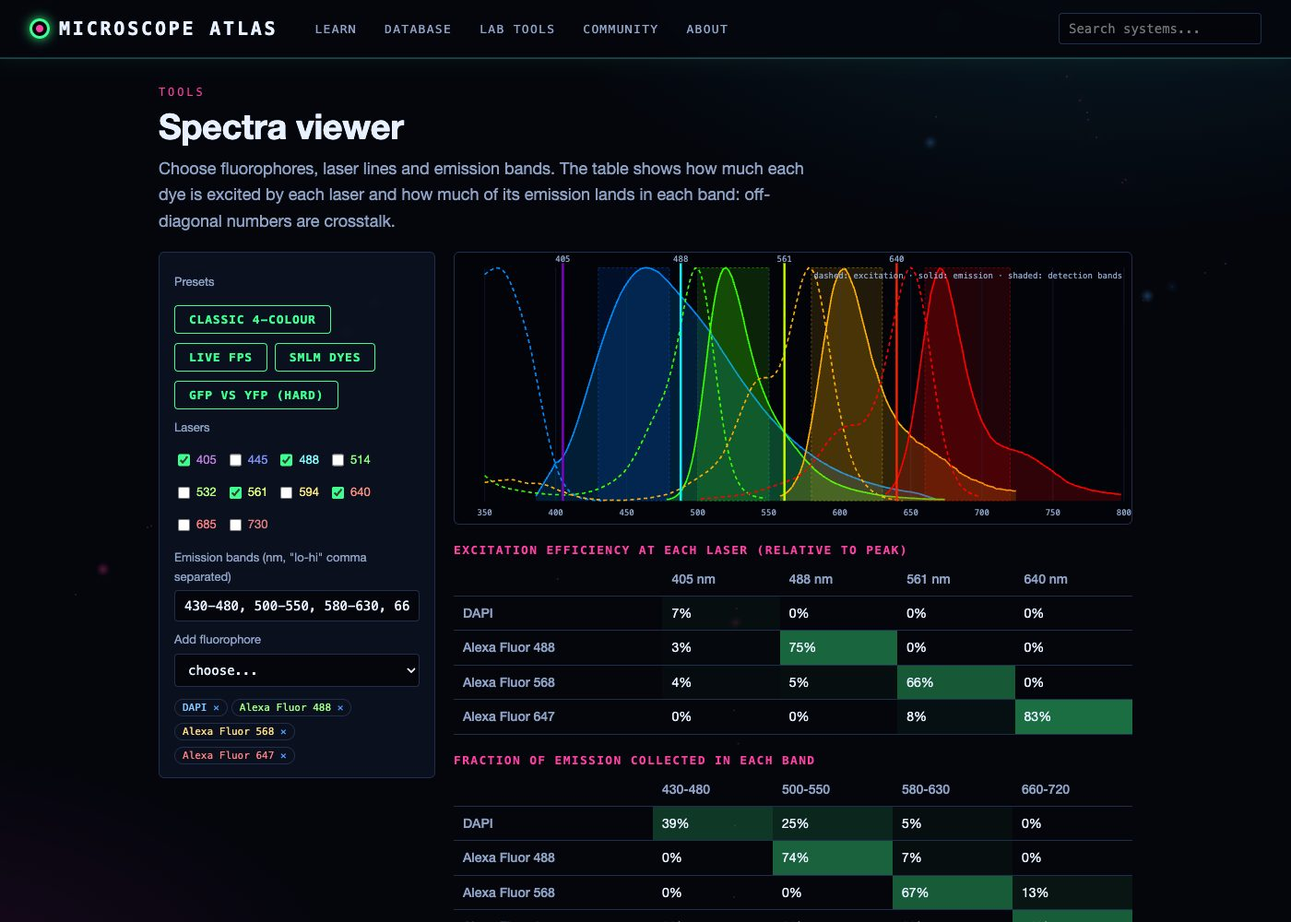
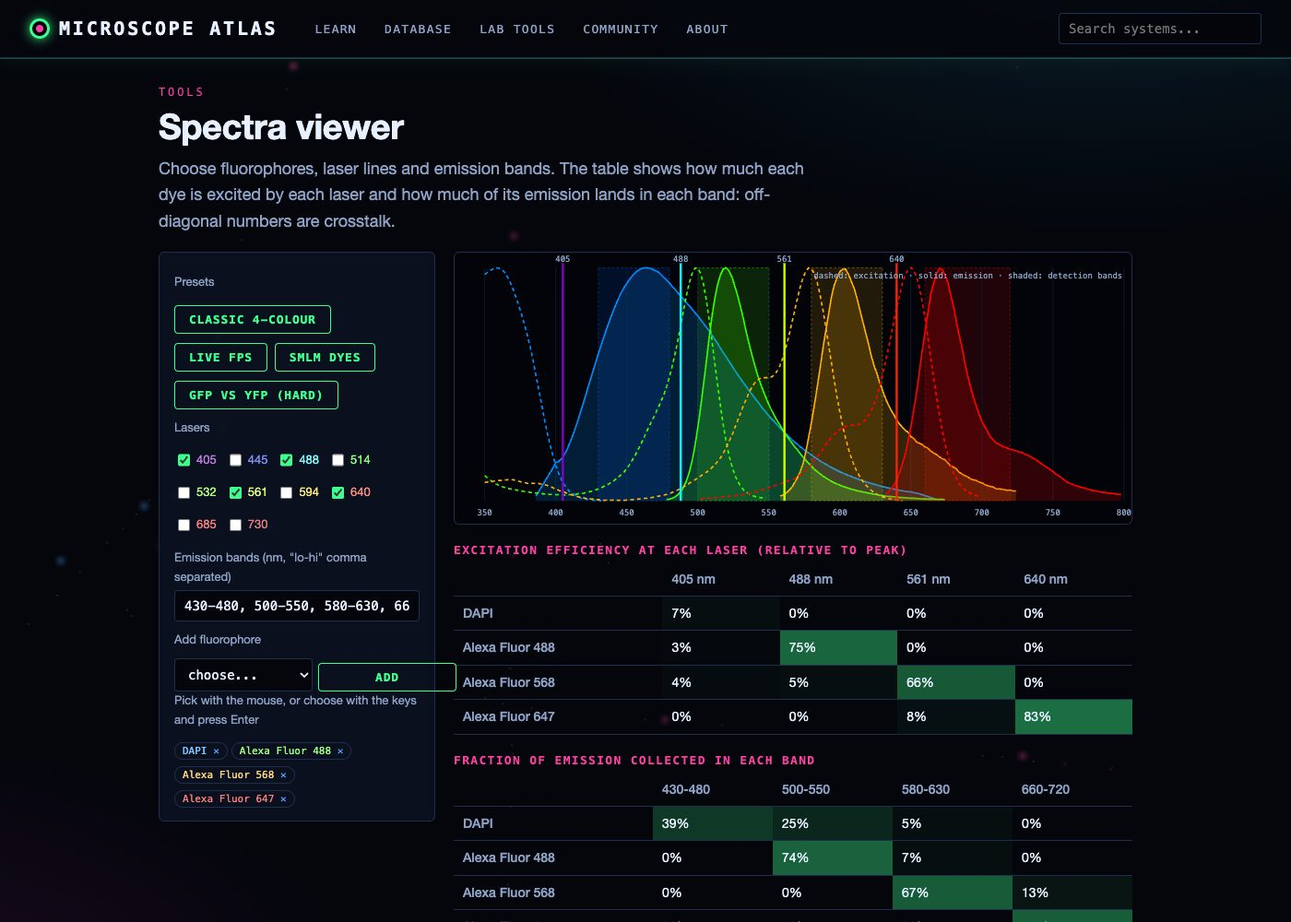
R11: optical table and spectra viewer fully usable by keyboard; audit tests both (132 pages clean)

Changed region(s): [[0.1229, 0.713, 0.3379, 0.899]]

diff --git a/atlas/web/static/table_view.js b/atlas/web/static/table_view.js
@@ -10,7 +10,7 @@ const NS = 'http://www.w3.org/2000/svg';
 const HANDLE = 32; // mm from the part centre
 
 export function createBoard(host, cb) {
-  host.innerHTML = `<svg class="tb-svg" xmlns="${NS}" role="application" aria-label="Optical breadboard: drag parts to move, drag the round handle to rotate">
+  host.innerHTML = `<svg class="tb-svg" xmlns="${NS}" role="application" aria-label="Optical breadboard. Drag parts to move and the round handle to rotate; or Tab to a part, then arrow keys move it (Shift for 10 mm), R and E rotate, Delete removes, Escape deselects">
     <defs><clipPath id="tb-clip"><rect class="tb-cliprect"/></clipPath><pattern id="tb-holes" width="25" height="25" patternUnits="userSpaceOnUse"><circle cx="12.5" cy="12.5" r="2.1" class="tb-hole"/></pattern></defs>
     <rect class="tb-plate" rx="6"/><rect class="tb-holes" fill="url(#tb-holes)"/>
     <g class="tb-beams" clip-path="url(#tb-clip)"></g><g class="tb-parts"></g><g class="tb-labels"></g><g class="tb-ui"></g></svg>`;
@@ -58,8 +58,13 @@ export function createBoard(host, cb) {
     board = { ...b };
     for (const k of ['plate', 'holes', 'cliprect']) { const r = L(k); r.setAttribute('width', board.w); r.setAttribute('height', board.h); }
     L('beams').innerHTML = result ? beams(result.segments, st.show) : '';
-    L('parts').innerHTML = (result ? result.components : []).map(c => `<g class="tb-part${c.id === st.selected ? ' sel' : ''}" data-id="${esc(c.id)}" transform="translate(${c.x} ${c.y}) rotate(${c.rot})">
-      <rect class="tb-hit" x="-12" y="-14" width="24" height="28"/>${draw(c)}<title>${esc(c.label || PARTS[c.type]?.label || c.type)}</title></g>`).join('');
+    // keyboard: every part is focusable and named; focusing one selects it, and focus survives the redraw
+    const had = svg.contains(document.activeElement) && document.activeElement.closest('.tb-part')?.dataset.id;
+    const name = c => c.label || PARTS[c.type]?.label || c.type;
+    L('parts').innerHTML = (result ? result.components : []).map(c => `<g class="tb-part${c.id === st.selected ? ' sel' : ''}" data-id="${esc(c.id)}" transform="translate(${c.x} ${c.y}) rotate(${c.rot})"
+      tabindex="0" role="button" aria-label="${esc(name(c))} at ${Math.round(c.x)}, ${Math.round(c.y)} mm, ${Math.round(c.rot)}°${c.id === st.selected ? ', selected' : ''}">
+      <rect class="tb-hit" x="-12" y="-14" width="24" height="28"/>${draw(c)}<title>${esc(name(c))}</title></g>`).join('');
+    if (had) L('parts').querySelector(`[data-id="${CSS.escape(had)}"]`)?.focus({ preventScroll: true });
     comps = result ? result.components : [];
     overlay();
   }
@@ -126,6 +131,7 @@ export function createBoard(host, cb) {
     if (d.mode === 'rotate' && d.moved) { const c = state.layout.components.find(k => k.id === d.id); cb.rotate(d.id, c.rot, true, true); }
     try { svg.releasePointerCapture(e.pointerId); } catch { /* already released */ }
   };
+  L('parts').addEventListener('focusin', e => { const id = e.target.closest('.tb-part')?.dataset.id; if (id && (!state || state.selected !== id)) cb.select(id); });
   svg.addEventListener('pointerup', end);
   svg.addEventListener('pointercancel', end);
   svg.addEventListener('wheel', e => { e.preventDefault(); zoomBy(Math.exp(e.deltaY * 0.0015), toBoard(e)); }, { passive: false });

diff --git a/atlas/web/static/fluor.js b/atlas/web/static/fluor.js
@@ -56,7 +56,7 @@ route('spectra', async () => {
       <label>Presets</label><div>${list(Object.keys(PRESETS), p => `<button class="alt" data-preset="${esc(p)}">${esc(p)}</button>`)}</div>
       <label>Lasers</label><div id="lz">${list(LASERS, l => `<label style="display:inline-flex;gap:4px;margin-right:10px"><input type="checkbox" value="${l}"> <span style="color:${waveText(l)}">${l}</span></label>`)}</div>
       <label for="bands">Emission bands (nm, "lo-hi" comma separated)</label><input id="bands">
-      <label for="addf">Add fluorophore</label><select id="addf"><option value="">choose...</option>${list(names, n => `<option>${esc(n)}</option>`)}</select>
+      <label for="addf">Add fluorophore</label><div class="row" style="gap:6px;flex-wrap:nowrap"><select id="addf" aria-describedby="addf-help"><option value="">choose...</option>${list(names, n => `<option>${esc(n)}</option>`)}</select><button class="alt" id="addf-go" type="button">Add</button></div><span id="addf-help" class="small mute">Pick with the mouse, or choose with the keys and press Enter</span>
       <div id="chips" style="margin-top:8px"></div></div>
       <div><svg id="splot" class="plot" viewBox="0 0 900 360"></svg><div id="xtab" class="scroll"></div></div></div>`;
   const $id = id => document.getElementById(id);
@@ -99,7 +99,13 @@ route('spectra', async () => {
   });
   $id('lz').addEventListener('change', e => { const v = +e.target.value; e.target.checked ? state.lasers.add(v) : state.lasers.delete(v); plot(); table(); });
   $id('bands').addEventListener('change', e => { state.bands = e.target.value.split(',').map(t => t.trim().split('-').map(Number)).filter(b => b.length === 2 && b[0] < b[1]); plot(); table(); });
-  $id('addf').addEventListener('change', e => { if (e.target.value) { state.on.add(e.target.value); e.target.value = ''; sync(); } });
+  // a mouse pick adds at once; with the keyboard (where each key press changes the value) confirm with Enter or Add
+  const addSel = $id('addf'), addNow = () => { if (addSel.value) { state.on.add(addSel.value); addSel.value = ''; sync(); addSel.focus(); } };
+  let pointer = false;
+  addSel.addEventListener('pointerdown', () => { pointer = true; });
+  addSel.addEventListener('keydown', e => { pointer = false; if (e.key === 'Enter') { e.preventDefault(); addNow(); } });
+  addSel.addEventListener('change', () => { if (pointer) addNow(); });
+  $id('addf-go').addEventListener('click', addNow);
   sync();
 });
 

diff --git a/atlas/web/static/table.js b/atlas/web/static/table.js
@@ -37,7 +37,7 @@ route('table', async ([presetId], query) => {
         <div class="tb-viewer panel" hidden></div>
         <div class="tb-files panel"><b>Save and share</b>
           <div class="tb-filerow"><input class="tb-name" placeholder="Name this layout" aria-label="Layout name"><button data-act="save">Save</button><select class="tb-saved" aria-label="Saved layouts"></select><button class="alt" data-act="load">Load</button><button class="alt" data-act="forget">Delete</button></div>
-          <div class="tb-filerow"><button class="alt" data-act="export">Export JSON</button><button class="alt" data-act="import">Import JSON</button><input type="file" accept=".json,application/json" class="tb-file" hidden><button class="alt" data-act="share">Share link</button></div>
+          <div class="tb-filerow"><button class="alt" data-act="export">Export JSON</button><button class="alt" data-act="import">Import JSON</button><input type="file" accept=".json,application/json" class="tb-file" aria-label="Import a layout file" hidden><button class="alt" data-act="share">Share link</button></div>
           <input class="tb-shareurl" readonly hidden aria-label="Shareable link"><div class="tb-status small" aria-live="polite"></div></div>
       </div>
       <aside class="tb-side"><div class="tb-props panel"></div><div class="tb-readouts panel"></div></aside>

diff --git a/atlas/web/static/style_table.css b/atlas/web/static/style_table.css
@@ -26,6 +26,7 @@ main.tb-wide { max-width:1680px; }
 .tb-hit { fill:transparent; }
 .tb-part:hover > :not(.tb-hit) { filter:brightness(1.35); }
 .tb-part.sel > :not(.tb-hit):not(title) { filter:drop-shadow(0 0 2px var(--gfp)); }
+.tb-part:focus { outline:none; } .tb-part:focus-visible > .tb-hit { stroke:var(--dapi); stroke-width:2; stroke-dasharray:4 3; }
 .tb-body { fill:#1a2742; stroke:#6b82b0; stroke-width:1; }
 .tb-aperture { stroke:none; } .tb-led { opacity:.9; }
 .tb-mount { fill:#2b3a5c; }

diff --git a/scripts/a11y_check.py b/scripts/a11y_check.py
@@ -11,6 +11,7 @@ At a phone viewport (390 x 844) each page is checked for:
   * duplicate element ids (break label[for] and aria references);
   * text contrast (WCAG 2: 4.5:1, 3:1 for large text) against the composited background colours;
   * simulations: keyboard use. Tab reaches a slider, and arrow keys change it and the readout or plot.
+  * optical table and spectra viewer: keyboard selection, moving, rotating; adding, toggling and removing.
 Writes docs/a11y_report.md and exits 1 if any page has problems. Run with the server up:
   .venv/bin/python scripts/a11y_check.py [--all] [--out docs/a11y_report.md] [route ...]
 (--all adds every technique page and every lab tool.)
@@ -23,6 +24,9 @@ from playwright.sync_api import sync_playwright
 
 sys.path.insert(0, str(Path(__file__).resolve().parent))
 from screenshots import BASE, README  # noqa: E402
+
+# pages audited here but not in the README screenshot list
+EXTRA = [("optical_table", "table", 0, None)]
 
 AUDIT = r"""() => {
   const W = window.innerWidth, out = {overflow: [], unlabelled: [], noname: [], noalt: 0, canvas: 0, dupids: []};
@@ -91,13 +95,71 @@ def keyboard(page):
     return [] if page.evaluate(snap) != before else ["keyboard: arrow keys on the slider change nothing visible"]
 
 
+def tab_to(page, test, limit=120):
+    """Press Tab until the JS predicate `test` (on document.activeElement) is true; False if never."""
+    for _ in range(limit):
+        page.keyboard.press("Tab")
+        if page.evaluate(f"(a => {test})(document.activeElement)"):
+            return True
+    return False
+
+
+def keyboard_table(page):
+    """Optical table: Tab reaches a part and selects it; arrows move it (focus kept); R rotates it."""
+    if not tab_to(page, "a && a.classList && a.classList.contains('tb-part')"):
+        return ["keyboard: Tab never reaches a part on the optical table"]
+    page.wait_for_timeout(300)
+    probs = []
+    info = "(() => { const a = document.activeElement; return a && a.classList.contains('tb-part') ? [a.dataset.id, a.getAttribute('transform'), a.classList.contains('sel')] : null; })()"
+    first = page.evaluate(info)
+    if not first[2]:
+        probs.append("keyboard: focusing a part does not select it")
+    page.keyboard.press("ArrowRight"); page.wait_for_timeout(300)
+    moved = page.evaluate(info)
+    if not moved or moved[0] != first[0]:
+        probs.append("keyboard: focus is lost after moving a part")
+    elif moved[1] == first[1]:
+        probs.append("keyboard: arrow keys do not move the part")
+    page.keyboard.press("r"); page.wait_for_timeout(300)
+    rot = page.evaluate(info)
+    if not rot or rot[1] == (moved or first)[1]:
+        probs.append("keyboard: R does not rotate the part")
+    return probs
+
+
+def keyboard_spectra(page):
+    """Spectra viewer: add a dye with the keyboard, toggle a laser with Space, remove the dye with Enter."""
+    probs, chips = [], "document.querySelectorAll('#chips [data-rm]').length"
+    n0 = page.evaluate(chips)
+    if not tab_to(page, "a && a.id === 'addf'"):
+        return ["keyboard: Tab never reaches 'Add fluorophore'"]
+    page.keyboard.type("al"); page.wait_for_timeout(300)  # type-ahead to a dye: must not add anything yet
+    if page.evaluate(chips) != n0:
+        probs.append("keyboard: choosing in 'Add fluorophore' adds dyes before the choice is confirmed")
+    page.keyboard.press("Enter"); page.wait_for_timeout(400)
+    if page.evaluate(chips) != n0 + 1:
+        probs.append("keyboard: Enter does not add the chosen fluorophore")
+    plot = "document.querySelector('#splot').innerHTML.length"
+    page.evaluate("document.querySelector('#lz input').focus()")
+    before = page.evaluate(plot)
+    page.keyboard.press("Space"); page.wait_for_timeout(300)
+    if page.evaluate(plot) == before:
+        probs.append("keyboard: Space on a laser checkbox changes nothing")
+    n1 = page.evaluate(chips)
+    page.evaluate("document.querySelector('#chips [data-rm]').focus()")
+    page.keyboard.press("Enter"); page.wait_for_timeout(300)
+    if page.evaluate(chips) >= n1:
+        probs.append("keyboard: Enter on a dye's ✕ does not remove it")
+    return probs
+
+
 def main():
     ap = argparse.ArgumentParser()
     ap.add_argument("--out", default="docs/a11y_report.md")
     ap.add_argument("--all", action="store_true", help="also every technique page and every lab tool")
     ap.add_argument("routes", nargs="*")
     a = ap.parse_args()
-    todo = [r for r in README if not a.routes or r[0] in a.routes]
+    todo = [r for r in README + EXTRA if not a.routes or r[0] in a.routes]
     if a.all:
         import json, re, urllib.request
         techs = json.load(urllib.request.urlopen(BASE.split("#")[0] + "api/techniques"))
@@ -119,6 +181,10 @@ def main():
             probs = []
             if route.startswith("sim/"):
                 probs += keyboard(page)
+            elif route == "table":
+                probs += keyboard_table(page)
+            elif route == "spectra":
+                probs += keyboard_spectra(page)
             if r["pageWidth"] > 391:
                 probs.append(f"page {r['pageWidth']}px wide: " + ", ".join(r["overflow"][:6]))
             for k, lab in (("unlabelled", "unlabelled controls"), ("noname", "unnamed buttons/links"), ("dupids", "duplicate ids")):

diff --git a/ROADMAP.md b/ROADMAP.md
@@ -20,7 +20,7 @@ Rules: sourced data only (see CLAUDE.md); new physics goes in `sim_engine.js` wi
 | R8 | Technique comparison matrix (all techniques vs resolution, depth, speed, live-cell, cost) with sortable view | Matrix page | completed 2026-11-10 | 2026-11-10 round 22: `#/matrix` page with all 52 techniques. Lateral and axial resolution, speed and depth are quoted from each technique page's own `resolution` and `key_numbers` (18 pages state a speed, 9 a depth). There is a log-scale lateral-resolution bar (parsed by `matrix_calc.js`, node-tested on every page; FRAP and CLEM get no bar because their first number is not a resolution). Columns sort; rows filter by family, text, and has speed/depth. Counts of systems, sims and papers. Round 23: live-imaging (yes/limited/no, 46 techniques) and cost (low/adds cost/high, 15) ratings in `data/content/technique_matrix.json`; each names the page statement it rests on (`strengths.0`, `sample_prep@1`, ...) and the API quotes it verbatim, so no rating is given where the page is silent (e.g. HILO, STM, MINFLUX live; most costs). Node test checks every reference resolves and its words speak to the rating; live-imaging filter |
 | R9 | Portfolio polish: links to George's public tools (FLIKA plugins etc.), case studies of his imaging work, only with his approval | George has reviewed the page | pending (needs George) | |
 | R10 | Static export (e.g. GitHub Pages) so the atlas can be shown without running Python | Decision from George on making it public | pending (needs George) | |
-| R11 | Accessibility, phone layout and performance pass | Lighthouse-style checks; keyboard navigation of sims | in_progress | 2026-11-10 round 24: `scripts/a11y_check.py` audits all 45 smoke-test routes at 390 px. Before: every page scrolled sideways (header menu 452 px), Cells tab bars to 701 px, 7 labels not tied to their controls (builder, Image Lab), lab search and file input unnamed, 34 unnamed cell-type image links, sim and Image Lab canvases without text. Fixed: phone header wraps and is not sticky, tab bars wrap, long words break, labels associated, names added, canvases `role=img` with caption or page-title labels; keyboard check (Tab to a slider, arrows change the sim) passes on all 21 sims. Now 45/45 clean (docs/a11y_report.md). Round 25: WCAG 2 text-contrast check (composited backgrounds; 4.5:1, 3:1 large) and `--all` (every technique page and lab tool, 131 pages). Found wavelength-coloured laser labels at 2.5-3.4:1 (spectra viewer, panel designer, secondary planner) and decorative ● swatches; new `core.waveText` (hue mixed halfway to white) for coloured text, swatches `aria-hidden`; 12 unlabelled secondary-planner controls given ids and `label for`. Now 131/131 clean. Still to do: the optical table and spectra viewer by keyboard, page weight and load time |
+| R11 | Accessibility, phone layout and performance pass | Lighthouse-style checks; keyboard navigation of sims | in_progress | 2026-11-10 round 24: `scripts/a11y_check.py` audits all 45 smoke-test routes at 390 px. Before: every page scrolled sideways (header menu 452 px), Cells tab bars to 701 px, 7 labels not tied to their controls (builder, Image Lab), lab search and file input unnamed, 34 unnamed cell-type image links, sim and Image Lab canvases without text. Fixed: phone header wraps and is not sticky, tab bars wrap, long words break, labels associated, names added, canvases `role=img` with caption or page-title labels; keyboard check (Tab to a slider, arrows change the sim) passes on all 21 sims. Now 45/45 clean (docs/a11y_report.md). Round 25: WCAG 2 text-contrast check (composited backgrounds; 4.5:1, 3:1 large) and `--all` (every technique page and lab tool, 131 pages). Found wavelength-coloured laser labels at 2.5-3.4:1 (spectra viewer, panel designer, secondary planner) and decorative ● swatches; new `core.waveText` (hue mixed halfway to white) for coloured text, swatches `aria-hidden`; 12 unlabelled secondary-planner controls given ids and `label for`. Now 131/131 clean. Round 26: optical-table parts are focusable buttons named with position and angle; focusing selects, focus survives redraws, so the existing arrow/R/E/Delete keys work without a mouse (visible dashed focus ring). Spectra viewer: 'Add fluorophore' added a dye on every key press (type-ahead or arrows); now a mouse pick adds at once and the keyboard confirms with Enter or a new Add button. Audit gains keyboard tests for both and the optical table route (132/132 clean). Still to do: page weight and load time |
 | R13 | Cells page (George's request 2026-11-10): diagrams of cell types, structures and biology, a database of cell images, and a cell identifier for uploaded images (local deep model, George's choice) | Page with sourced content, image database, identifier tested | completed 2026-11-10 | 2026-11-10: 10 SVG cell diagrams with clickable parts; `data/content/cells.json` (22 structures, 34 cell types, 23 numbers, all sourced: BioNumbers, Milo & Phillips, HPA, Thermo Fisher, Wikipedia; NCBI Bookshelf blocked scripts, OpenStax excluded by its AI-use notice); identifier `atlas/cell_id.py` (BiomedCLIP, zero-shot + nearest atlas images, ~0.04 s/image on MPS after a ~19 s load), `/api/cells/identify`. Then: 97 Commons cell micrographs (33 types, licences checked by the API and the fetch script; duplicates of existing atlas files gain a `cell_type`); leave-one-out accuracy `scripts/eval_cell_id.py` → docs/cell_id_eval.md: top-1 32%, top-3 56% (text weight 0.7) |
 | R14 | Nobel Prizes and microscopy page in Community (George's request) | Sourced list with official citations | completed 2026-11-10 | 19 prizes (32 laureates) from nobelprize.org summary pages, press releases and speeches (Wikipedia twice: Laveran's microscope quote, CCD use in microscopy); filters by kind and prize, search |
 | R15 | Grow the cell-image database to improve the identifier (George's request) | ~6 more images per cell type; accuracy re-measured | completed 2026-11-10 | 193 more Commons micrographs (three research agents; 12 dropped: no technique named, a photographed print, a licence under review, a near-duplicate), stored at 720 px: 290 labelled cell images across 34 types. Leave-one-out: text 29%/52%, neighbours 23%/50%, probe 26%/52%, blend text 0.4 + probe 0.4 + neighbours 0.2 33%/59% (top-1/top-3), now used by the app (was 32%/56% on 97 images) |

diff --git a/INTERFACE.md b/INTERFACE.md
@@ -80,7 +80,7 @@ JSON by `static_api.js`; Python-only tools show a notice.
 - `portfolio/` (published images + manifest.json) and `portfolio_staging/` (git-ignored local previews). An optional `display.json` beside each manifest marks files as raw `image` (with a gallery `group`) or `figure`; My Microscopy shows only raw images, project pages show both.
 
 ## scripts/
-`validate_data.py` (schema check, used by tests) · `build_static.py` (static export) · `build_papers.py` · `check_links.py [--systems]` (reports in docs/) · `fetch_commons.py` (images) · `fetch_fpbase.py` (fluorophores and spectra) · `content/build_content.py` (fundamentals, glossary, portfolio) · `content/cell_images_src.py`, `cell_images_src2.py` (Commons cell micrographs; batch 2 stored smaller), `content/calcium_images_src.py` (calcium movies, topic "calcium": Commons files, and CC BY open-access paper files given by `file_url` + licence + DOI; videos converted by `commons_video.py` to MP4 + poster), merged into the fetch by `fetch_commons.py`) · `eval_cell_id.py` (identifier leave-one-out accuracy → docs/cell_id_eval.md) · `backup_to_drive.sh <dest>` (project incl. git-ignored local data, git bundle, user cache → external drive) · `screenshots.py` (Playwright + Chrome: README figures in `docs/img` and a smoke test of every route; needs the server running) · `a11y_check.py [--all]` (phone-width accessibility audit: overflow, names, alt text, canvases, WCAG text contrast, keyboard check of sims; `--all` adds every technique page and lab tool → docs/a11y_report.md; server running).
+`validate_data.py` (schema check, used by tests) · `build_static.py` (static export) · `build_papers.py` · `check_links.py [--systems]` (reports in docs/) · `fetch_commons.py` (images) · `fetch_fpbase.py` (fluorophores and spectra) · `content/build_content.py` (fundamentals, glossary, portfolio) · `content/cell_images_src.py`, `cell_images_src2.py` (Commons cell micrographs; batch 2 stored smaller), `content/calcium_images_src.py` (calcium movies, topic "calcium": Commons files, and CC BY open-access paper files given by `file_url` + licence + DOI; videos converted by `commons_video.py` to MP4 + poster), merged into the fetch by `fetch_commons.py`) · `eval_cell_id.py` (identifier leave-one-out accuracy → docs/cell_id_eval.md) · `backup_to_drive.sh <dest>` (project incl. git-ignored local data, git bundle, user cache → external drive) · `screenshots.py` (Playwright + Chrome: README figures in `docs/img` and a smoke test of every route; needs the server running) · `a11y_check.py [--all]` (phone-width accessibility audit: overflow, names, alt text, canvases, WCAG text contrast, keyboard checks of sims, the optical table and the spectra viewer; `--all` adds every technique page and lab tool → docs/a11y_report.md; server running).
 
 ## tests/
 `test_data.py` (validator, counts, every sim id has code) · `test_api.py` (routes) · `test_lab_files.py` (inspector endpoint) · `test_images.py` (licences, credits, ids, size) · `test_methods_videos.py` (methods coverage, video rows) · `table_engine.test.mjs` (ray-tracer physics and every preset) · `table_imaging.test.mjs` (PSF width, photon conservation, noise statistics, TIRF weighting, binning, modes per preset) · `cells.test.mjs` (diagrams render, part ids, sourced content) · `test_cells.py` (content API, identifier end to end when ML is installed) · `test_imagelab.py` (TIFF reader, image ops and spot fits vs tifffile/numpy/scipy, via `imagelab_check.mjs`) · `sim_engine_photon.test.mjs` (cross-section, flux, saturation, collection, band fraction) · `builder.test.mjs` (spec parsing on the real database, report vs hand calculation) · `sim_engine_loc.test.mjs` (exact noise-free fits, precision vs Thompson, matching) · `sim_engine_image.test.mjs` (PSF σ, binning, Poisson and read noise, spectra, PackBits) · `matrix.test.mjs` (length parsing on every technique page, log axis, sorting, rating references resolve and support the rating) · `lightpath.test.mjs` (every technique has a diagram that renders; step matching and coverage) · `test_js.py` runs every `tests/*.test.mjs` with node (sim engine incl. `sim_engine2/3.test.mjs` for Simulations II, lab setup, labelling, bench).

diff --git a/SESSION_LOG.md b/SESSION_LOG.md
@@ -501,3 +501,15 @@ description (correct for IC295) plus a note that IC293 is endothelial.
   `aria-hidden` (the wavelength is in the row); planner rows get ids and `label for`. 131/131 clean.
 - pytest 54 passed, 1 skipped; smoke test 45 routes ok; docs/img spectra and fluorophores refreshed. R11 continues:
   optical table and spectra viewer by keyboard, then page weight and load time.
+
+## 2026-11-10: round 26, R11 keyboard use of the optical table and spectra viewer
+- Optical table: the arrow/R/E/Delete/undo keys existed but a part could only be selected with the mouse. Parts are
+  now focusable (`tabindex`, role button, named "<part> at x, y mm, angle°, selected"); focusing one selects it and
+  focus is restored after each redraw (`table_view.js`); dashed focus ring (`style_table.css`); board label lists the
+  keys; the hidden JSON import input is named.
+- Spectra viewer: 'Add fluorophore' added a dye on every change, so keyboard type-ahead or arrowing added one dye per
+  key. Now a mouse pick adds at once (pointer flag), the keyboard confirms with Enter, and an Add button is there.
+- `a11y_check.py`: keyboard tests for the table (Tab selects a part, arrows move with focus kept, R rotates) and the
+  spectra viewer (choosing adds nothing until Enter, Space toggles a laser, Enter on ✕ removes); optical table route
+  audited. 132/132 pages clean. pytest 54 passed, 1 skipped; smoke test ok; docs/img/spectra refreshed.
+- The server had been stopped (clean shutdown in its log); restarted.

diff --git a/README.md b/README.md
@@ -100,7 +100,8 @@ an AFM-imaged sphere, and the spinning-disk fill-factor floor.
 | ![Köhler simulation](docs/img/sim_kohler.jpg) | ![AFM simulation](docs/img/sim_afm.jpg) |
 
 ## Virtual optical table
-Prototype microscopes and laser set-ups on a breadboard with live 2D ray tracing. There are 43 part types:
+Prototype microscopes and laser set-ups on a breadboard with live 2D ray tracing. It works by mouse or keyboard: Tab
+selects a part, arrow keys move it (Shift for 10 mm steps), R and E rotate it, Delete removes it and Ctrl+Z undoes. There are 43 part types:
 - sources: lasers, LEDs, lamps, fibres;
 - mirrors and scanners: mirrors, galvos, SLMs, DMDs, deformable mirrors;
 - dichroics, filters, polarization optics, apertures and pinholes;
@@ -324,7 +325,7 @@ python3 -m venv .venv
 - Google Chrome is optional; with Playwright it powers `scripts/screenshots.py`, the README figures and a smoke
   test of every page.
 - `scripts/a11y_check.py --all` audits 131 pages at phone width (390 px): no sideways scrolling, every control and
-  link named, alt text, canvases described, WCAG text contrast, and keyboard control of each simulation. The latest result is in
+  link named, alt text, canvases described, WCAG text contrast, and keyboard control of each simulation, the optical table and the spectra viewer. The latest result is in
   [docs/a11y_report.md](docs/a11y_report.md).
 
 ## How the data were gathered

diff --git a/docs/a11y_report.md b/docs/a11y_report.md
@@ -2,7 +2,7 @@
 
 Generated by `scripts/a11y_check.py` at a 390 x 844 viewport (see the script for the checks).
 
-131 of 131 pages clean.
+132 of 132 pages clean.
 
 | Page | Route | Problems |
 |---|---|---|
@@ -51,6 +51,7 @@ Generated by `scripts/a11y_check.py` at a 390 x 844 viewport (see the script for
 | community | `#/community` | none |
 | nobel | `#/nobel` | none |
 | gallery | `#/gallery` | none |
+| optical_table | `#/table` | none |
 | technique:brightfield | `#/technique/brightfield` | none |
 | technique:darkfield | `#/technique/darkfield` | none |
 | technique:phase-contrast | `#/technique/phase-contrast` | none |
